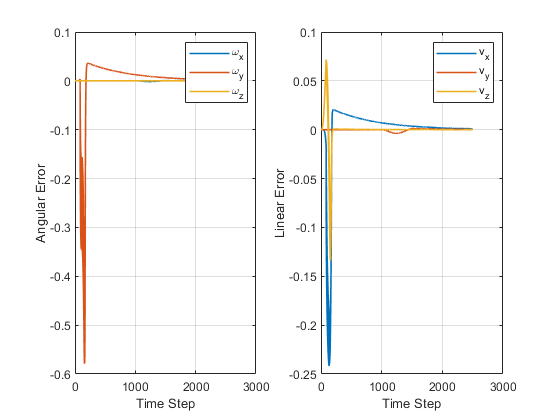
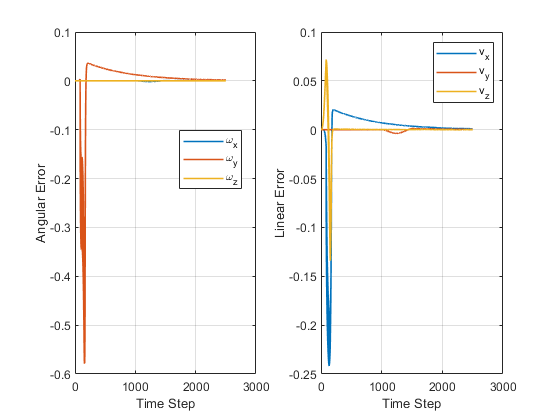
Changing the legend location in the overshoot plot

Changed region(s): [[0.3339, 0.0929, 0.4554, 0.2476], [0.3036, 0.3714, 0.425, 0.4643], [0.3036, 0.3095, 0.425, 0.3405]]

diff --git a/Final Project/html/overshoot_main.html b/Final Project/html/overshoot_main.html
@@ -241,7 +241,7 @@ subplot(1,2,1)
 plot(allErrors(:,1:3), <span class="string">'LineWidth'</span>, 1.2)
 xlabel(<span class="string">'Time Step'</span>)
 ylabel(<span class="string">'Angular Error'</span>)
-legend(<span class="string">'\omega_x'</span>, <span class="string">'\omega_y'</span>, <span class="string">'\omega_z'</span>)
+legend(<span class="string">'\omega_x'</span>, <span class="string">'\omega_y'</span>, <span class="string">'\omega_z'</span>,Location=<span class="string">'best'</span>)
 grid <span class="string">on</span>
 
 subplot(1,2,2)
@@ -525,7 +525,7 @@ subplot(1,2,1)
 plot(allErrors(:,1:3), 'LineWidth', 1.2)
 xlabel('Time Step')
 ylabel('Angular Error')
-legend('\omega_x', '\omega_y', '\omega_z')
+legend('\omega_x', '\omega_y', '\omega_z',Location='best')
 grid on
 
 subplot(1,2,2)

diff --git a/Final Project/overshoot_main.m b/Final Project/overshoot_main.m
@@ -187,7 +187,7 @@ subplot(1,2,1)
 plot(allErrors(:,1:3), 'LineWidth', 1.2)
 xlabel('Time Step')
 ylabel('Angular Error')
-legend('\omega_x', '\omega_y', '\omega_z')
+legend('\omega_x', '\omega_y', '\omega_z',Location='best')
 grid on
 
 subplot(1,2,2)
